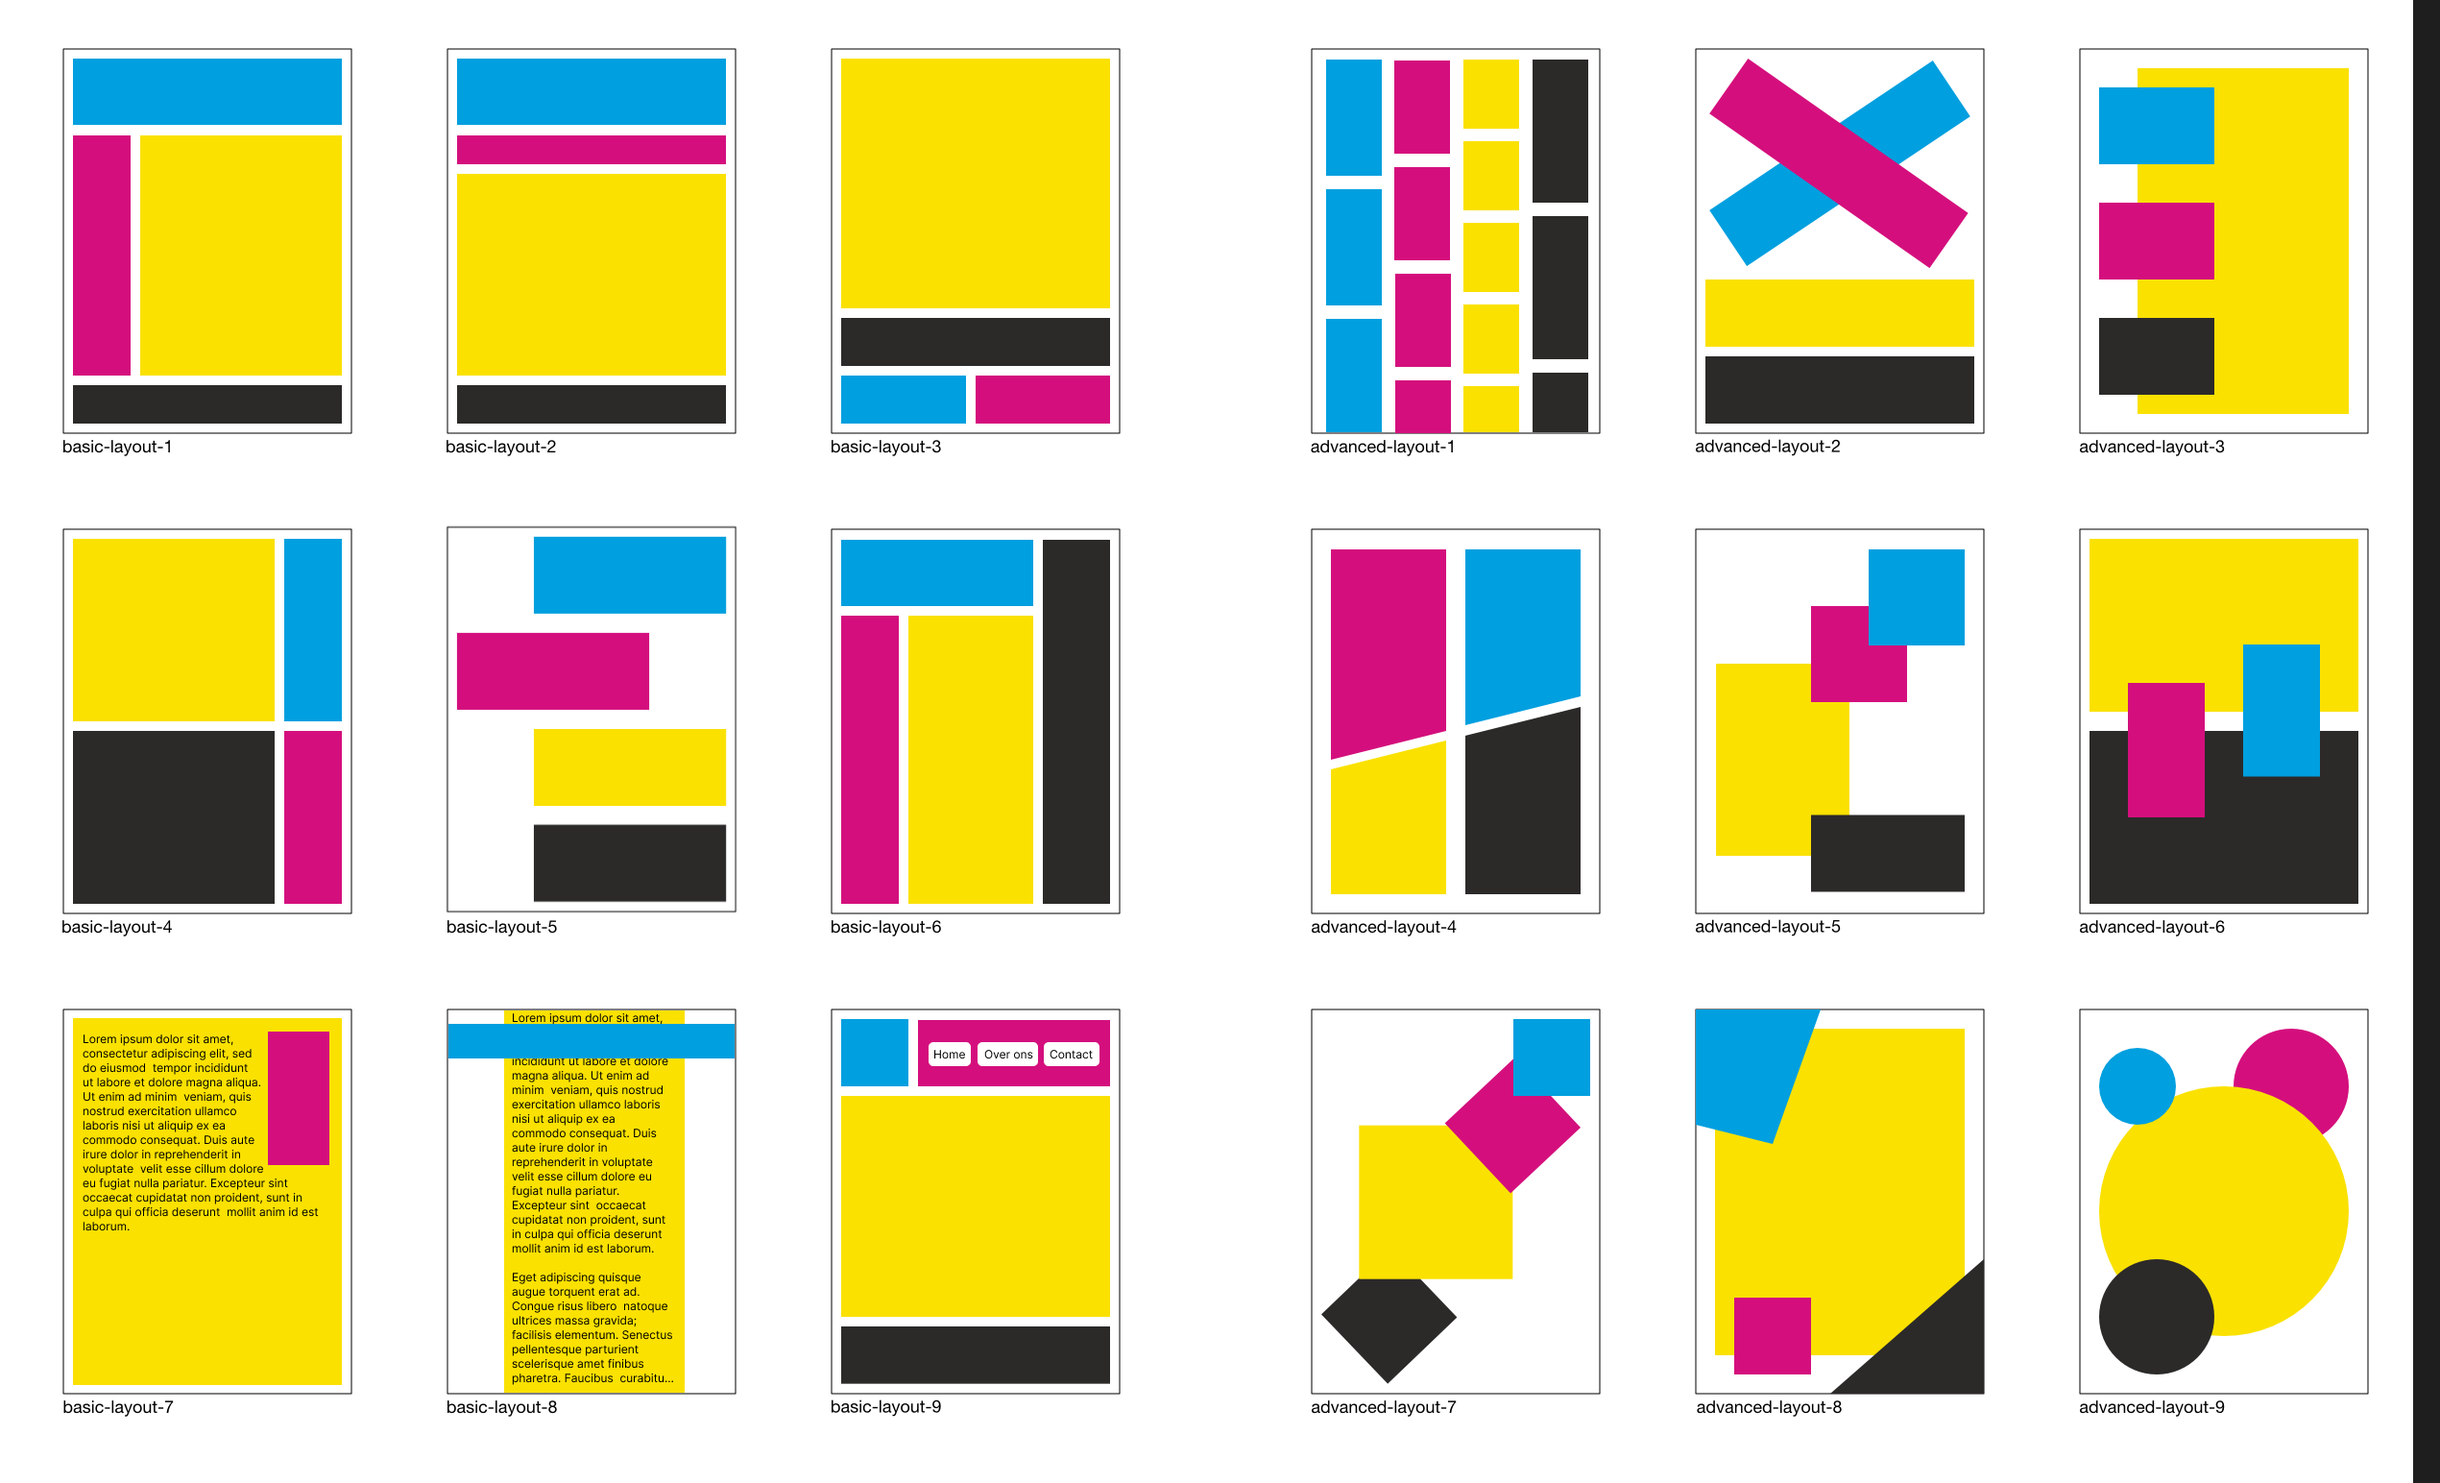
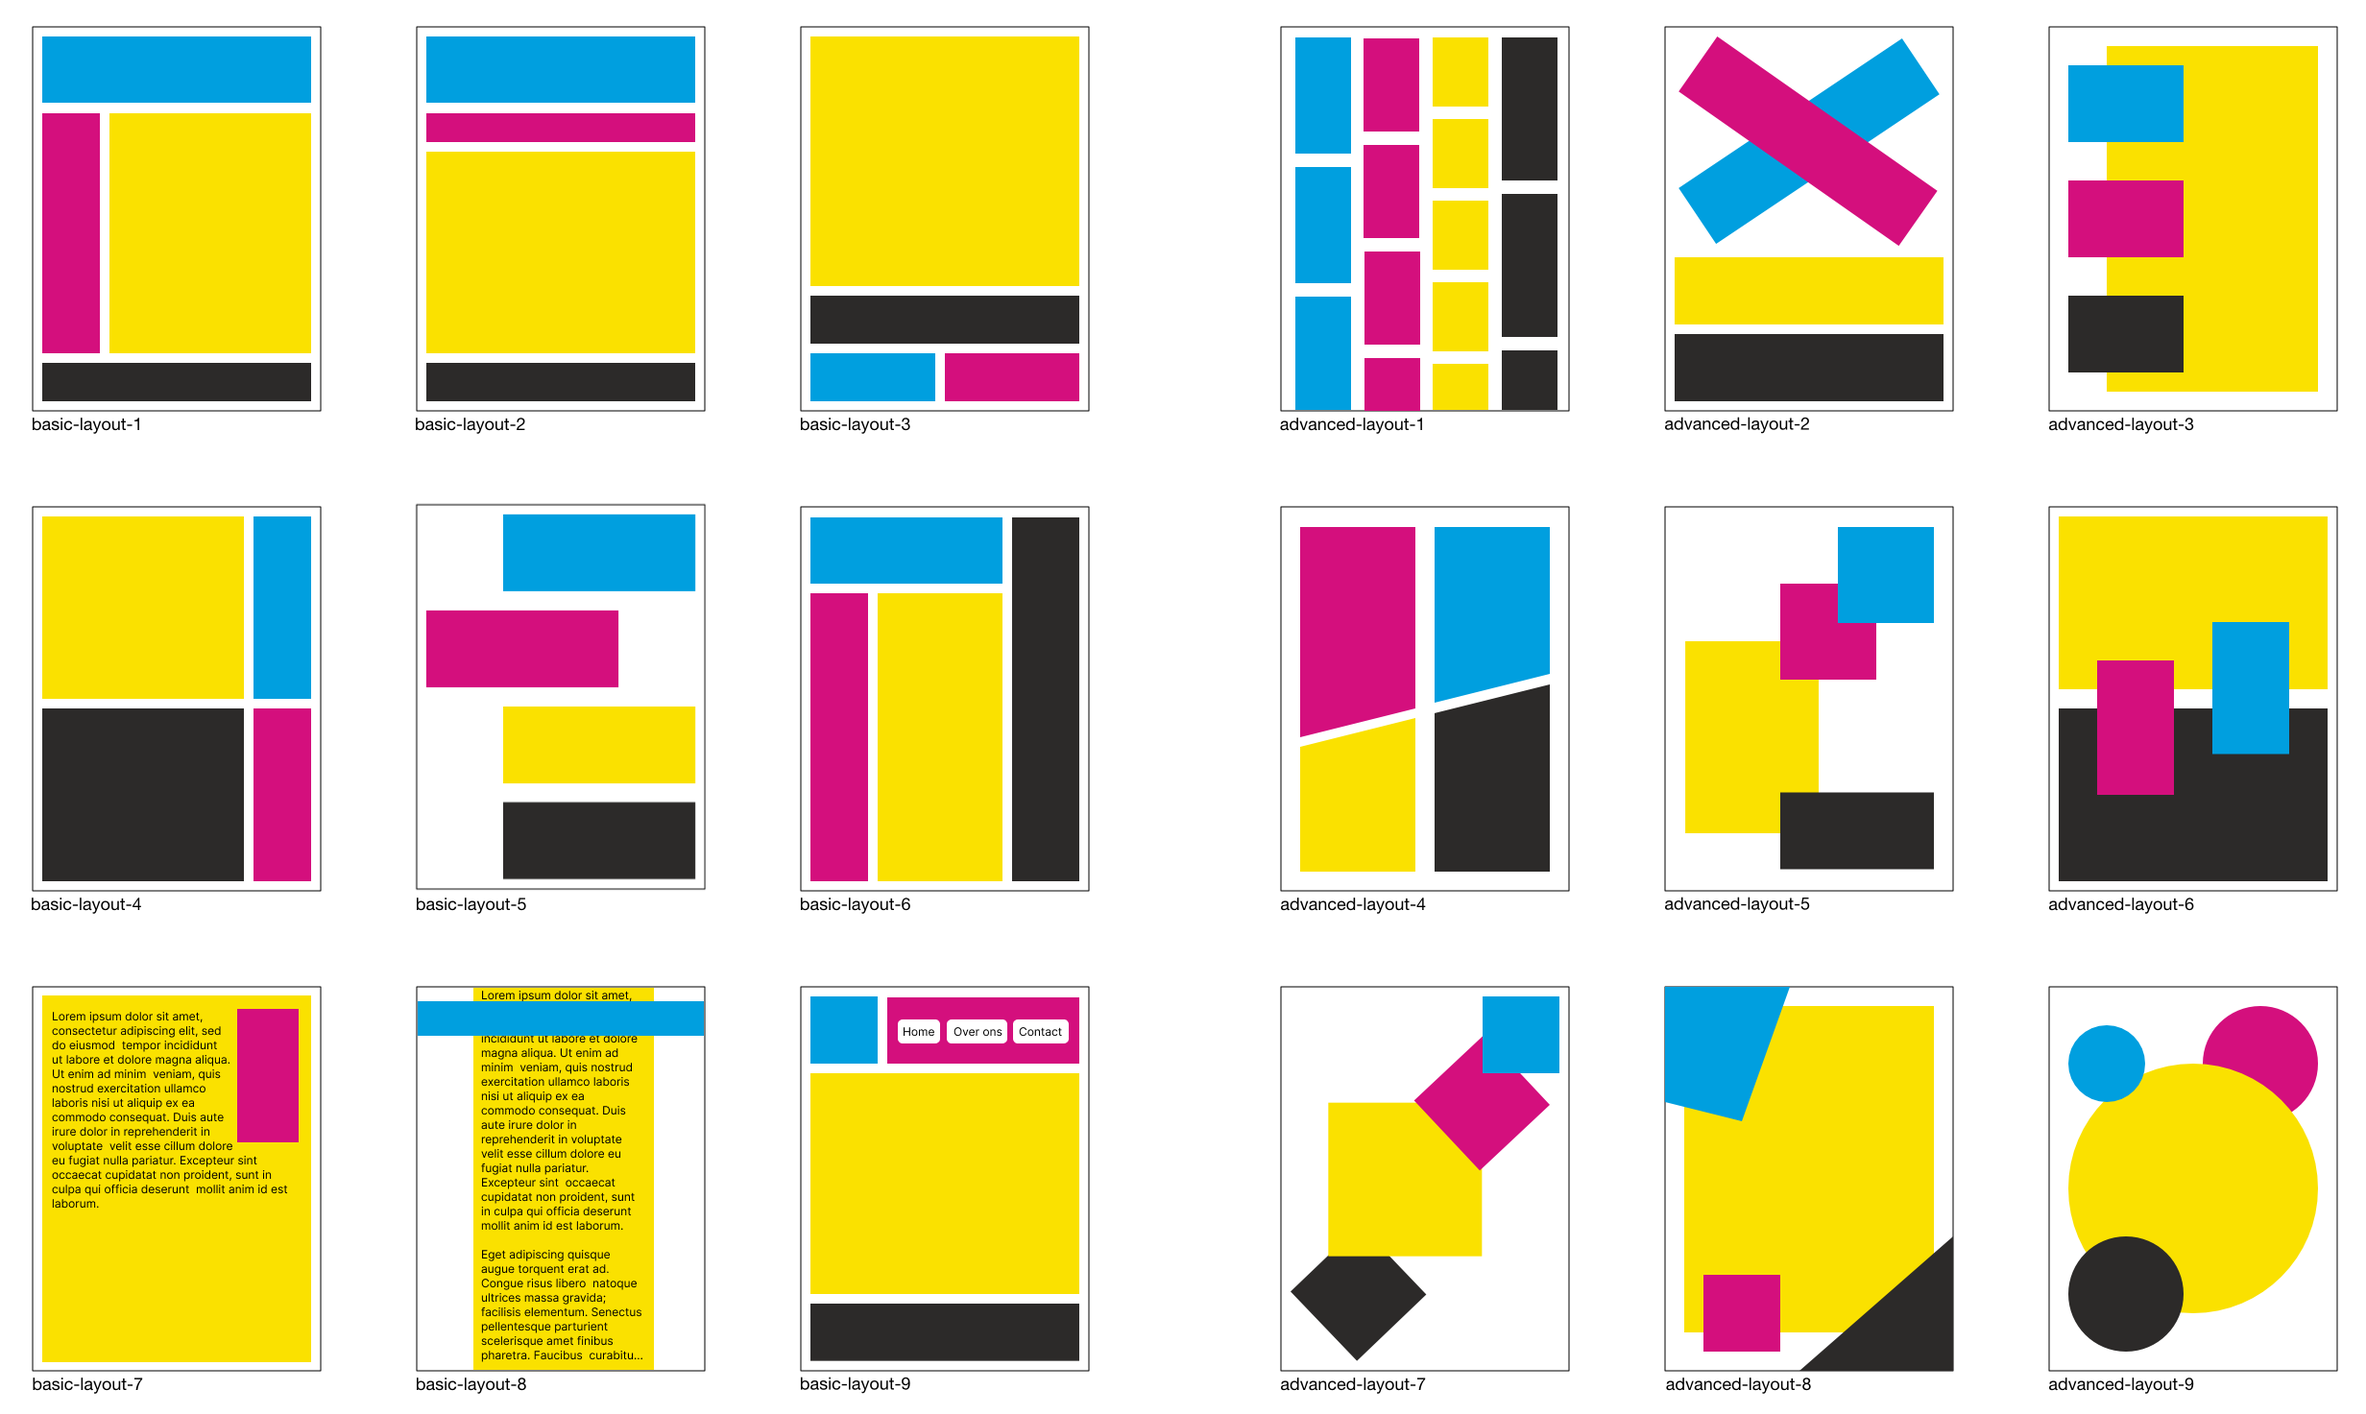
Optimize image

diff --git a/index.html b/index.html
@@ -46,7 +46,7 @@
       </ul>
     </nav>
 
-    <img src="assets/layouts.png" alt="">
+    <img src="assets/layouts.png" alt="" width="2464" height="1473">
 
   </body>
 </html>
